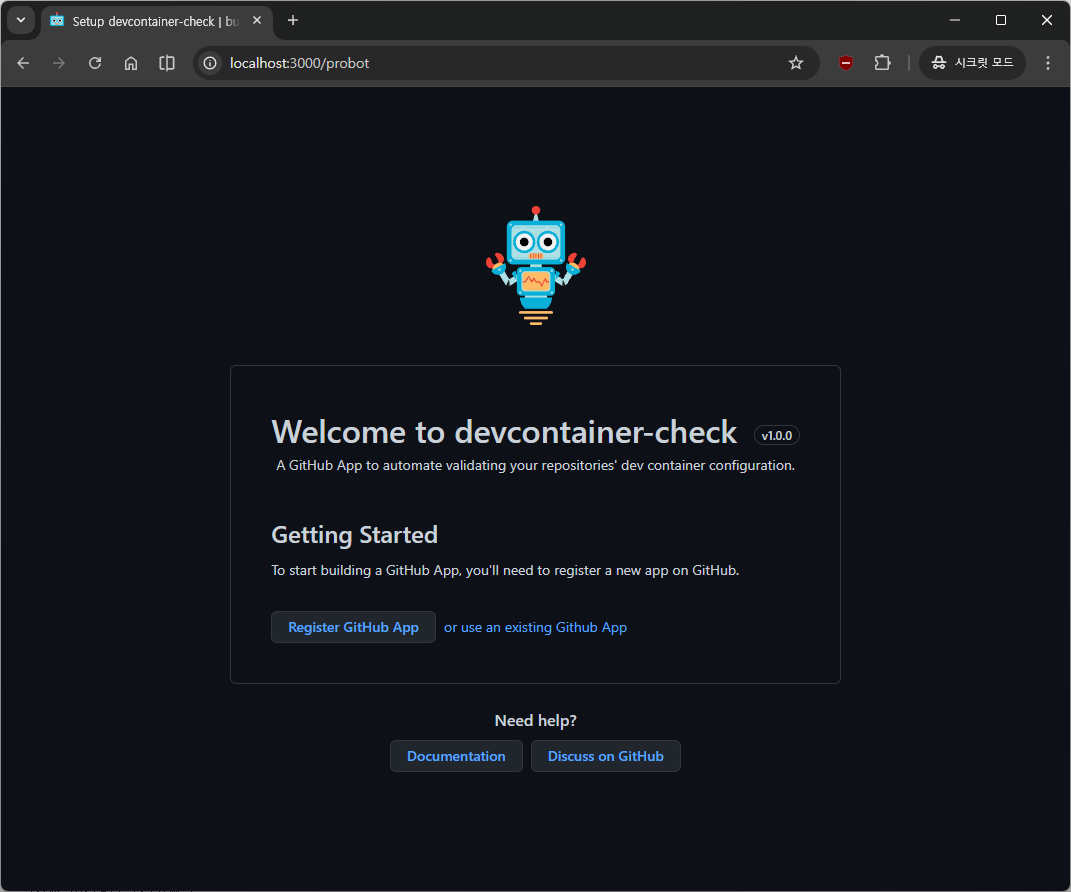
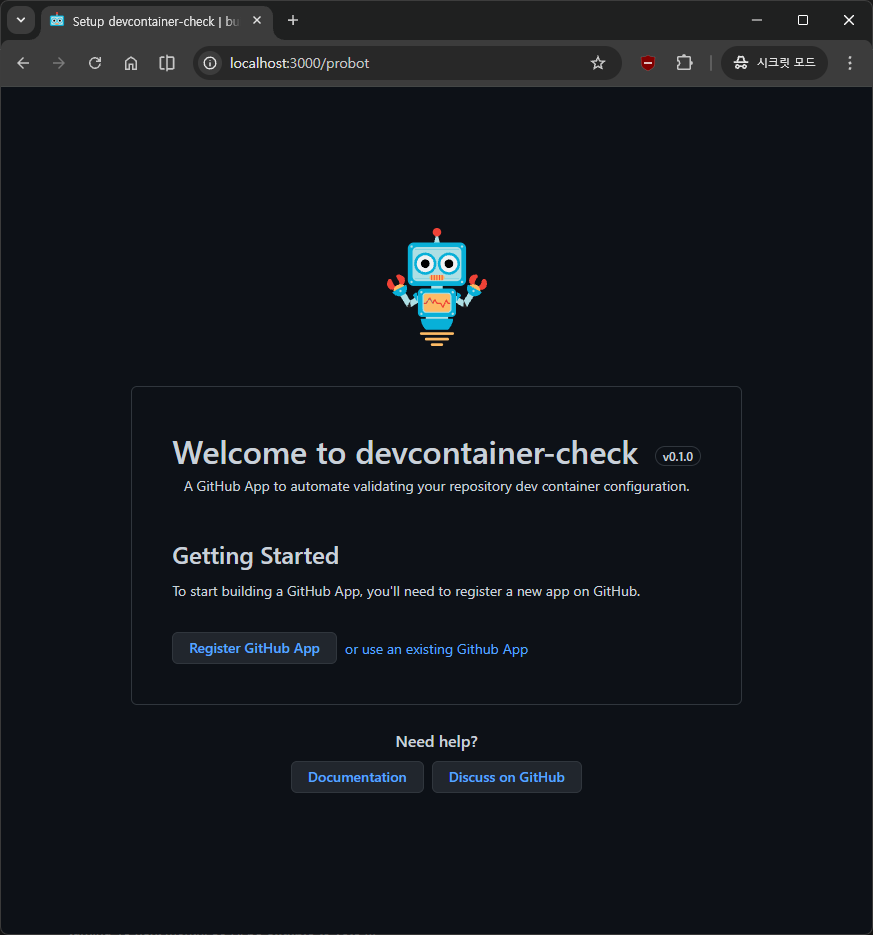
chore: update app manifest, version and description

diff --git a/README.md b/README.md
@@ -4,9 +4,44 @@
 
 A GitHub App to automate validating your repositories' dev container configuration.
 
-## Getting Started
+## ❔ How it works
+
+Below is sequence diagram of how this app works:
+
+```mermaid
+sequenceDiagram
+	participant target as Target Repository
+	participant server as Webhook Handler
+	participant runner as Runner Repository
+
+  target ->> server: Push events
+  server ->> server: Check if dev container configuration changed
+  server ->> runner: Trigger workflow (workflow_dispatch)
+  runner ->> runner: Validate dev container
+  runner ->> target: Update commit statuses (started)
+  runner ->> runner: Build and test dev container
+  runner ->> target: Update commit statuses (completed)
+```
+
+- **Why use GitHub Actions?**
+
+  To validate, build and test containers. Building containers takes some time and resource-heavy work. We reuse GitHub Actions for it.
+
+- **Why must I self-host this app?**
+
+  We have no infrastructure to run the tasks. If we make it public for unlimited CI minutes, there is security risk of leaking repository contents.
+
+- **Why update commit statuses in the workflow?**
+
+  We have no database to simplify the app implementation.
+
+  We are planning to improve the implementation with key-value stores that offer reasonable free-tier plans to simplify the installation by removing app credentials from the repository, used by check workflow.
+
+## ⚙ Getting Started
 
 This app is made for internal use only. You must self-host this application.
+
+### 🤖 Create GitHub App
 
 You should have Node.js, npm installed on your system. Otherwise, you can use Dev Container instead.
 
@@ -27,3 +62,14 @@ npm run dev
 Then visit to the http://localhost:3000 to creates GitHub App with Probot's app registration helper.
 
 ![Probot Landing](docs/probot-landing.png)
+
+### 🚧 Workflow configurations
+
+Go to repository **Settings** > **Security and Quality** > **Secrets and variables** > **Actions** and add below variables ad **Repository secrets**:
+
+- **APP_ID**: GitHub App ID
+- **PRIVATE_KEY** GitHub App private key
+
+### 🚀 Deploy to Vercel
+
+...
